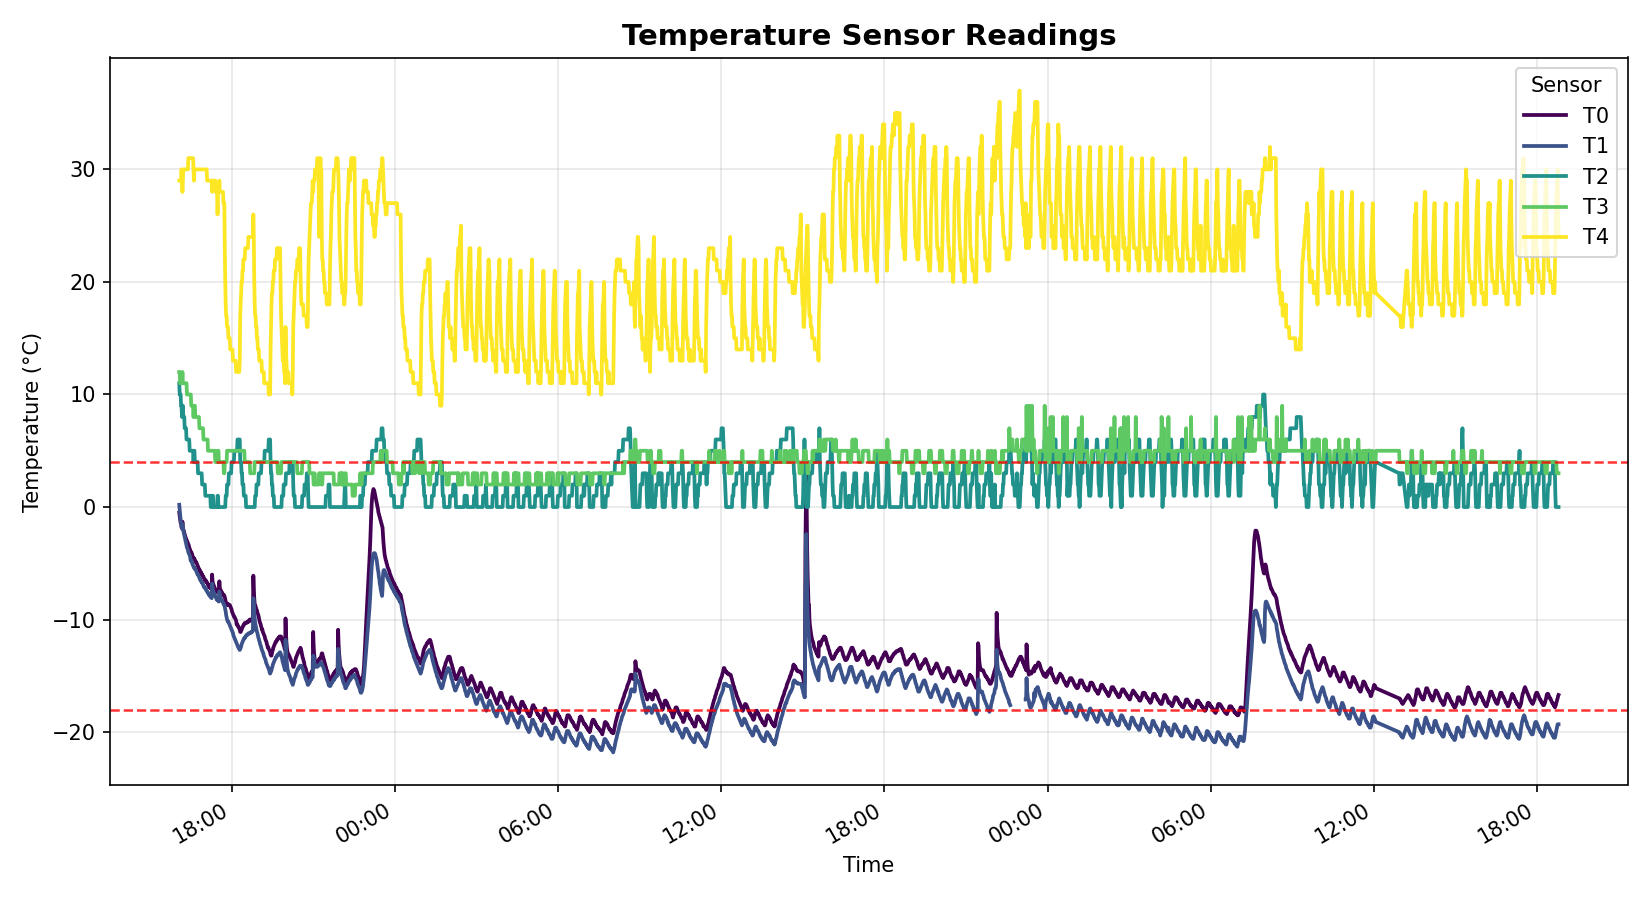
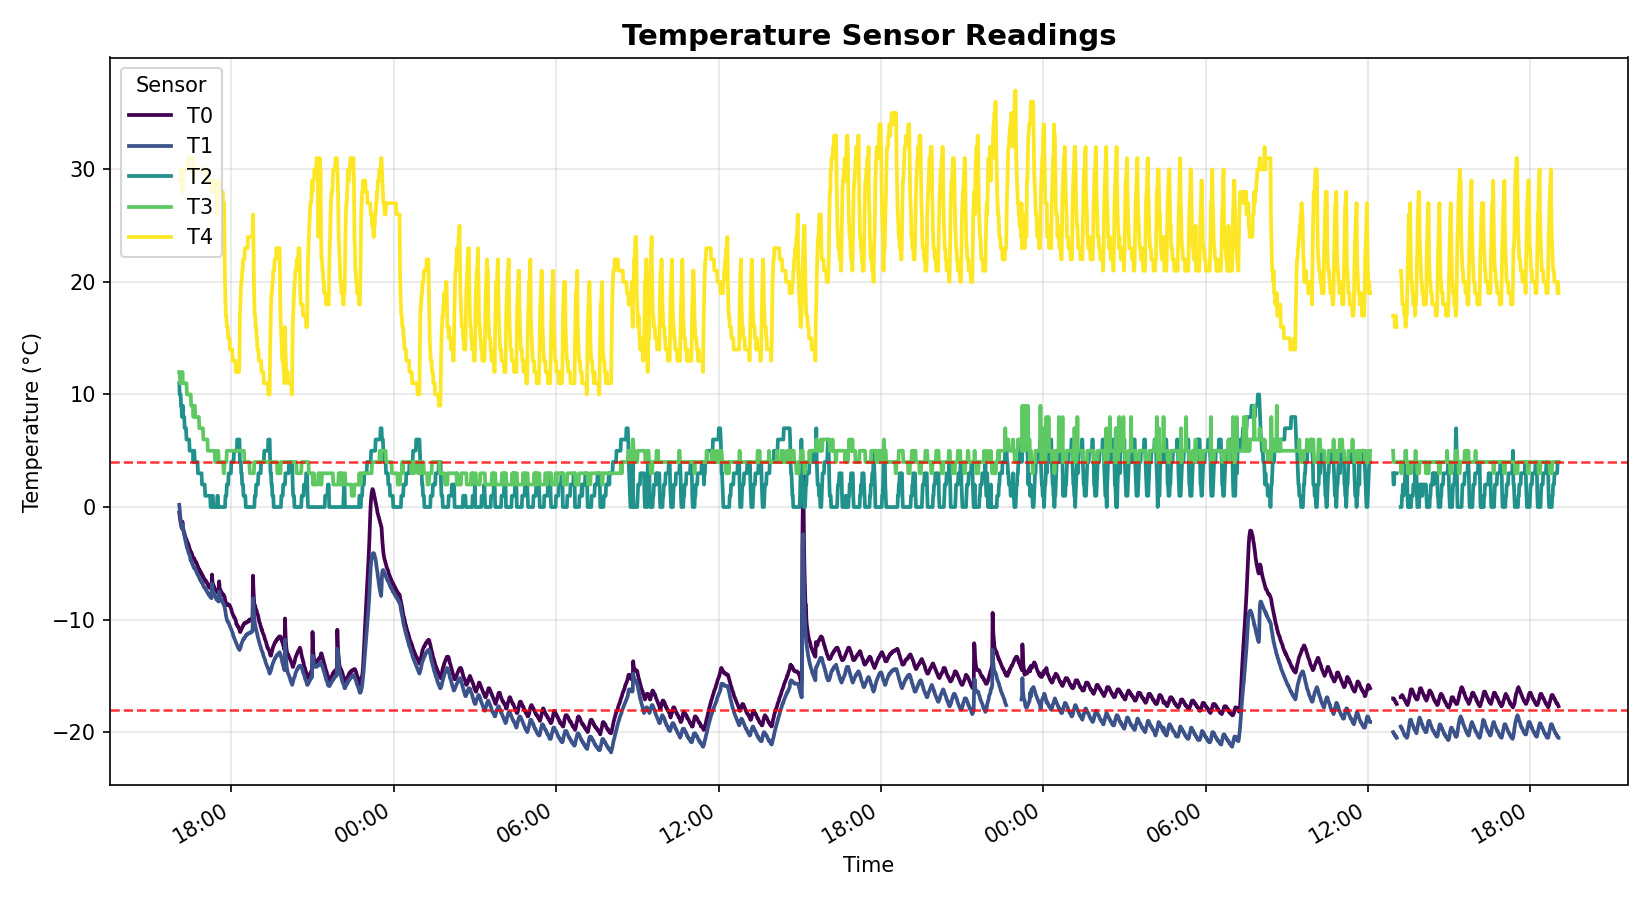
Update temperature plot 2026-08-05 19:04

diff --git a/plot_temps.py b/plot_temps.py
@@ -11,7 +11,7 @@ Usage:
     python3 plot_temps.py
 
     # Specify host and/or time range
-    python3 plot_temps.py --host 10.0.0.64 --from "2026-08-03T00:00" --to "2026-08-04T00:00"
+    python3 plot_temps.py --host 10.0.0.64 --from "2026-08-03T18:00" --to "2026-08-04T18:00"
 
     # Skip downloading and just plot a CSV you already have
     python3 plot_temps.py --csv data.csv
@@ -51,9 +51,31 @@ def download_csv(host: str, from_ts: str, to_ts: str, dest_path: str, timeout: f
 
 def plot_temperatures(csv_path: str, output_path: str) -> None:
     df = pd.read_csv(csv_path, parse_dates=["Time"])
-    df = df.sort_values("Time")  # file may be newest-first; put it in chronological order
+    df = df.sort_values("Time").reset_index(drop=True)  # file may be newest-first
 
     sensor_cols = [c for c in df.columns if c != "Time"]
+
+    # Insert a NaN row wherever the gap between consecutive readings exceeds
+    # this threshold, so periods where the board was offline show up as a
+    # break in the line instead of a straight interpolation across the
+    # outage. Readings are expected roughly every minute, with a few
+    # seconds of drift -- 3 minutes is comfortably above normal jitter but
+    # well below a real outage.
+    GAP_THRESHOLD_SECONDS = 3 * 60
+    diffs = df["Time"].diff().dt.total_seconds()
+    gap_threshold = GAP_THRESHOLD_SECONDS
+
+    gap_rows = []
+    for i in range(1, len(df)):
+        gap = diffs.iloc[i]
+        if gap > gap_threshold:
+            midpoint = df["Time"].iloc[i - 1] + (df["Time"].iloc[i] - df["Time"].iloc[i - 1]) / 2
+            blank = {c: (midpoint if c == "Time" else float("nan")) for c in df.columns}
+            gap_rows.append(blank)
+
+    if gap_rows:
+        df = pd.concat([df, pd.DataFrame(gap_rows)], ignore_index=True)
+        df = df.sort_values("Time").reset_index(drop=True)
 
     # A sensor read failure is reported as -273.2 C. Treat anything below
     # -50 C as a failed reading and drop it (as a gap) rather than plot it.
@@ -73,7 +95,7 @@ def plot_temperatures(csv_path: str, output_path: str) -> None:
     ax.set_title("Temperature Sensor Readings", fontsize=14, fontweight="bold")
     ax.set_xlabel("Time")
     ax.set_ylabel("Temperature (°C)")
-    ax.legend(title="Sensor", loc="best", frameon=True)
+    ax.legend(title="Sensor", loc="upper left", frameon=True)
     ax.grid(True, alpha=0.3)
 
     ax.xaxis.set_major_formatter(mdates.DateFormatter("%H:%M"))
